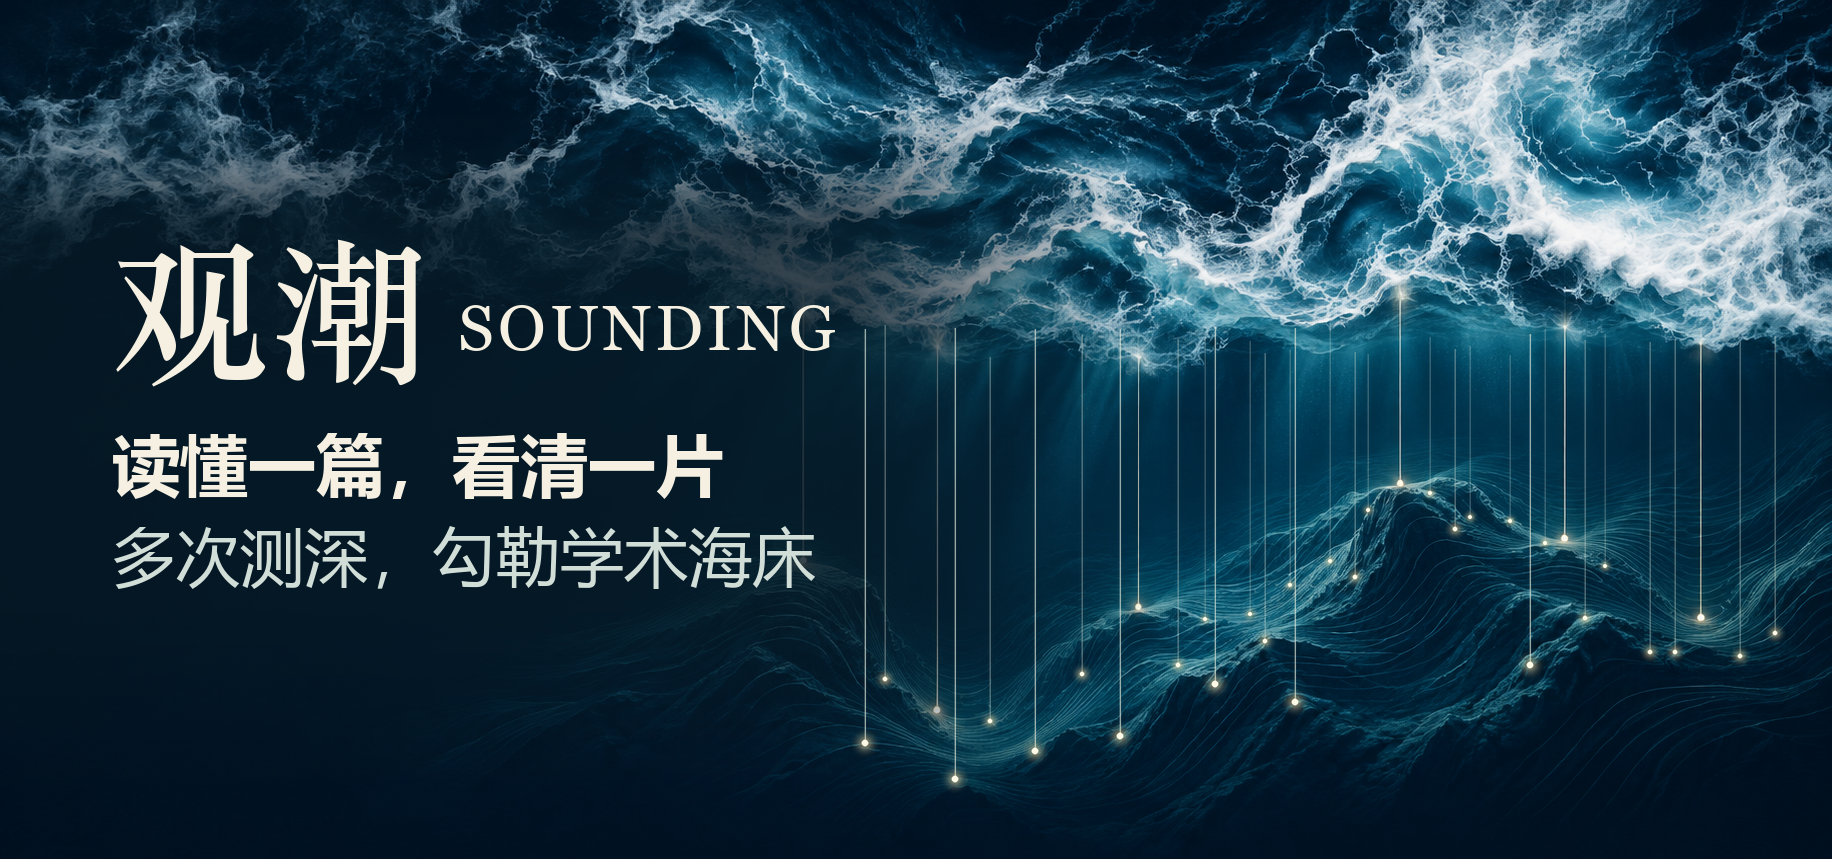
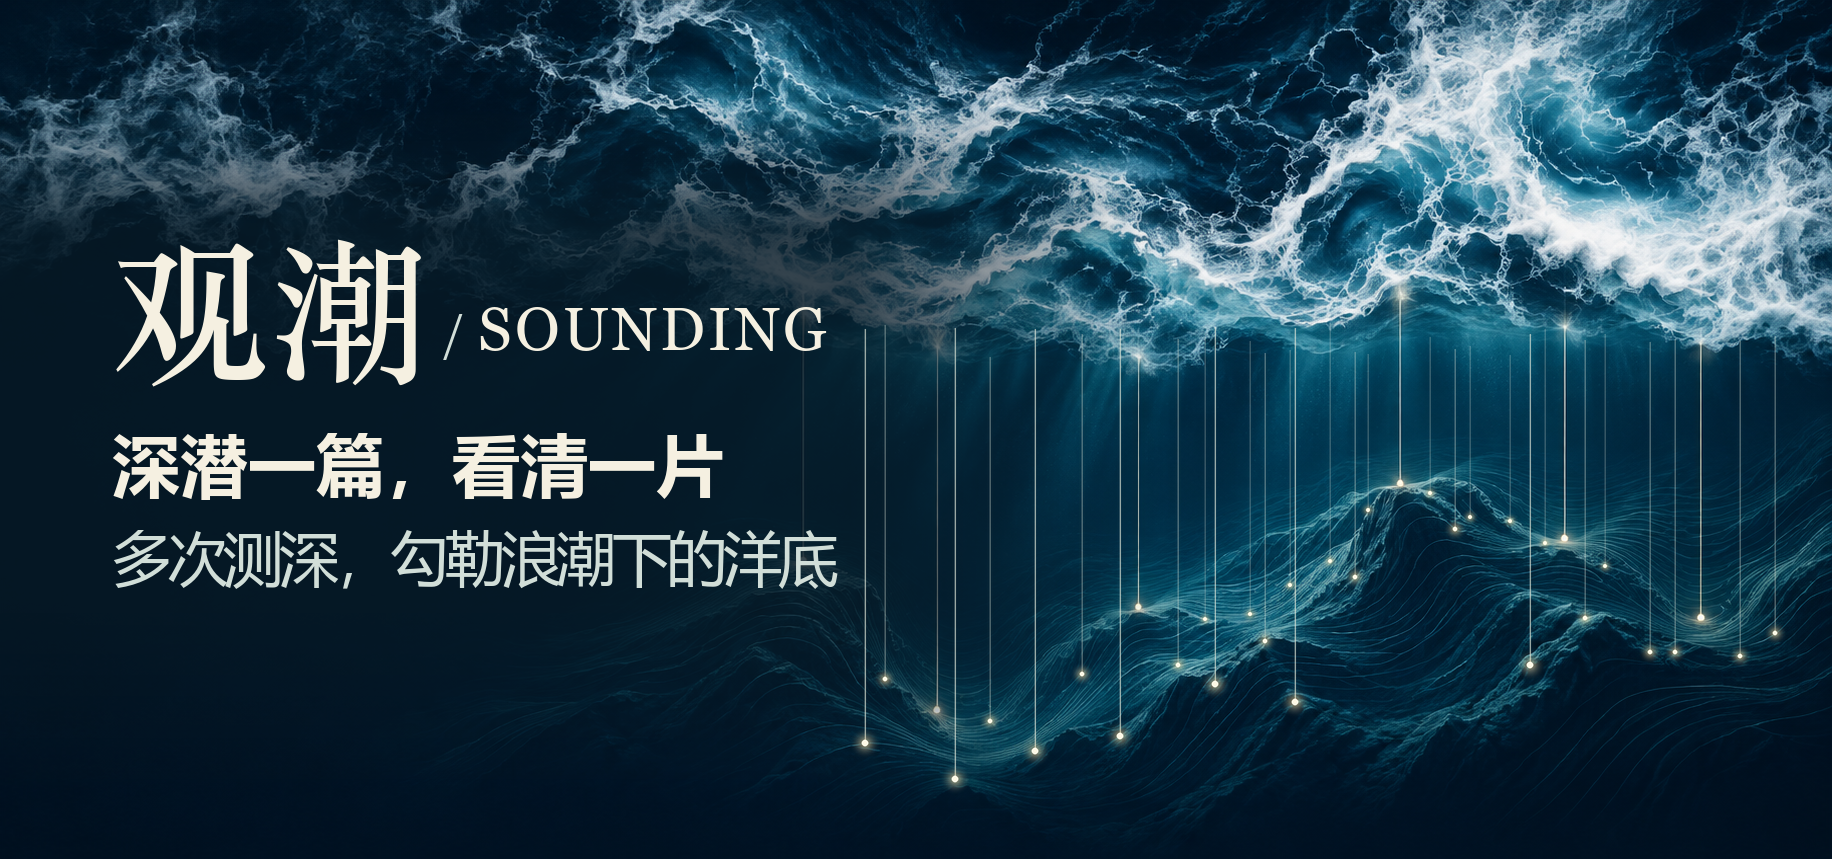
docs: update Sounding cover wording

Changed region(s): [[0.0622, 0.6054, 0.4667, 0.6962], [0.2489, 0.3329, 0.4667, 0.4237], [0.0622, 0.4843, 0.1556, 0.5751]]

diff --git a/README.md b/README.md
@@ -1,6 +1,6 @@
-# 观潮 / Sounding
+# 观潮 / SOUNDING
 
-![翻涌的学术浪潮下，多条测深线逐渐勾勒海床](assets/readme/sounding-poster.png)
+![观潮 / SOUNDING：深潜一篇，看清一片。多次测深，勾勒浪潮下的洋底；多条测线抵达海床。](assets/readme/sounding-poster.png)
 
 > **把论文读成可复述、可核对、可迁移的证据链。**
 >
